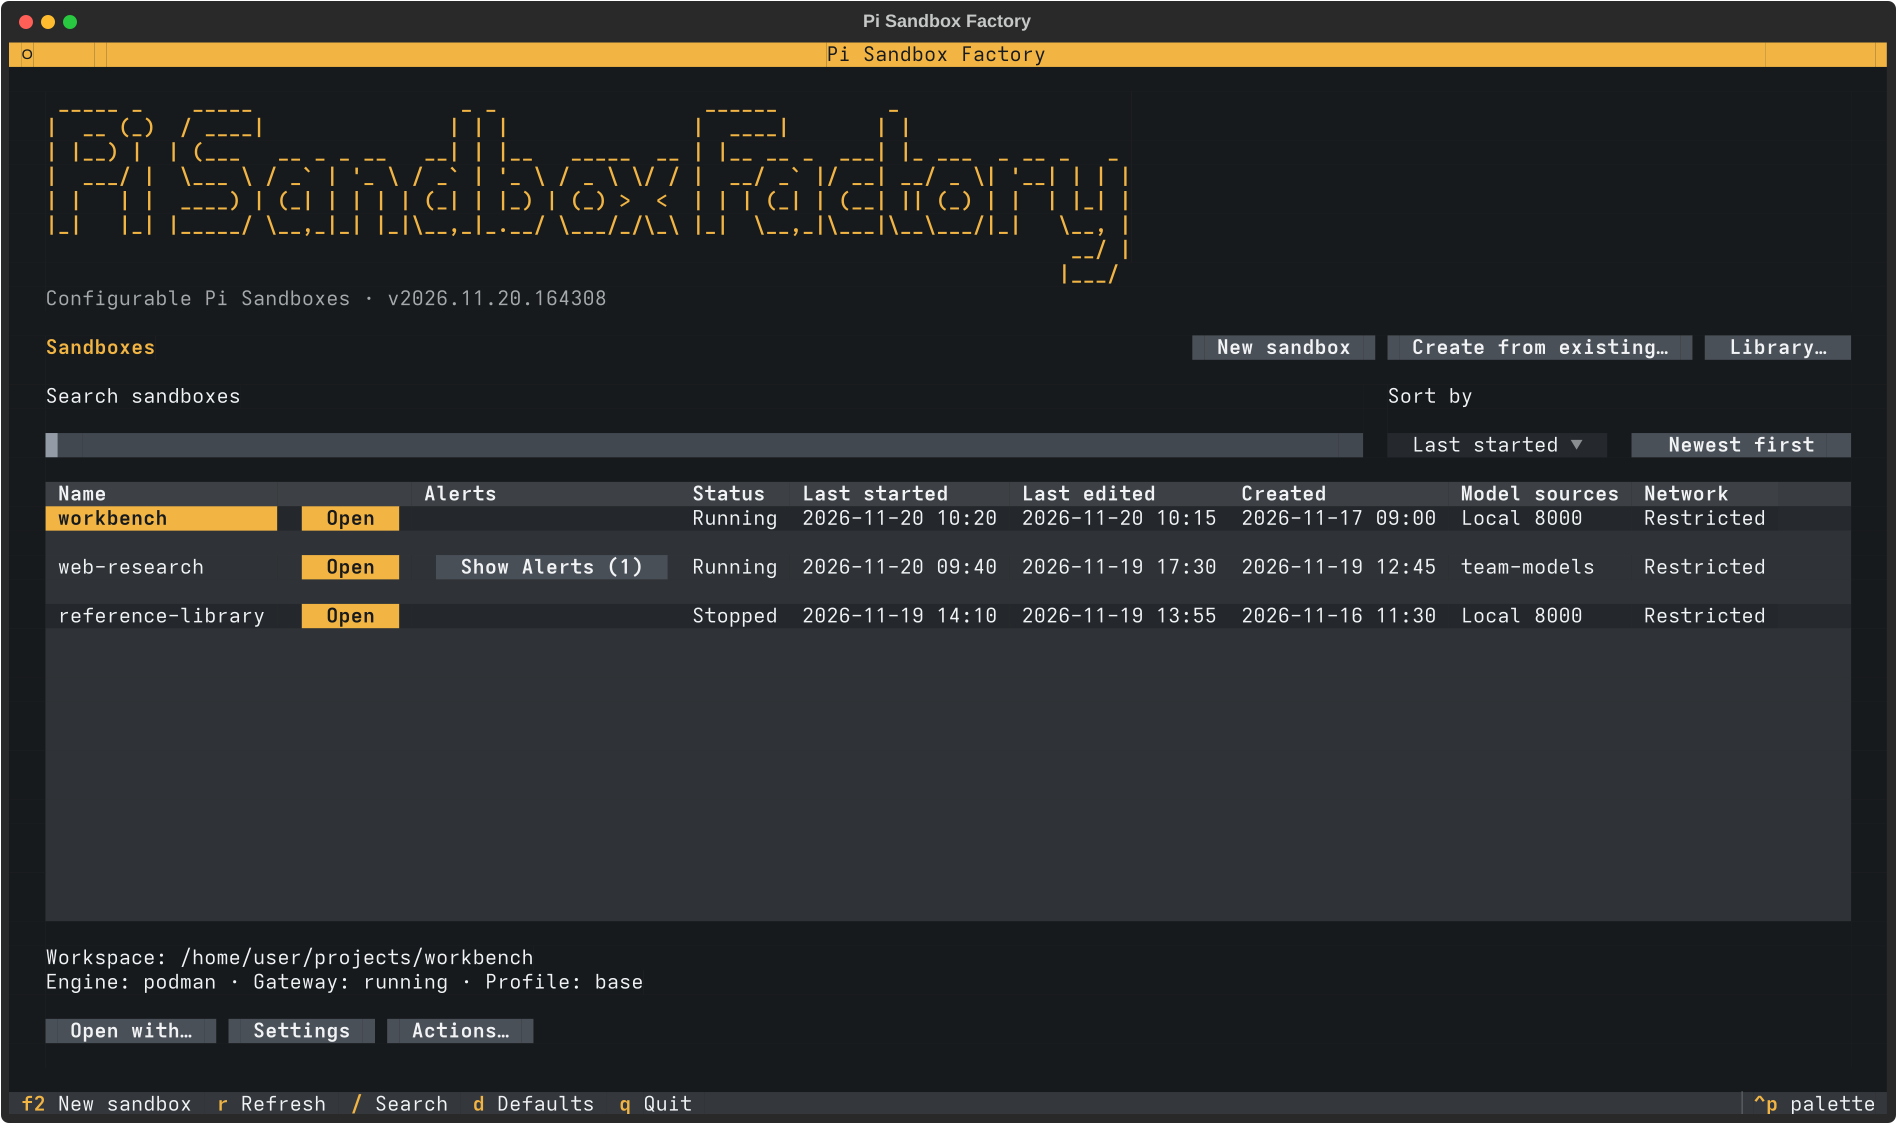
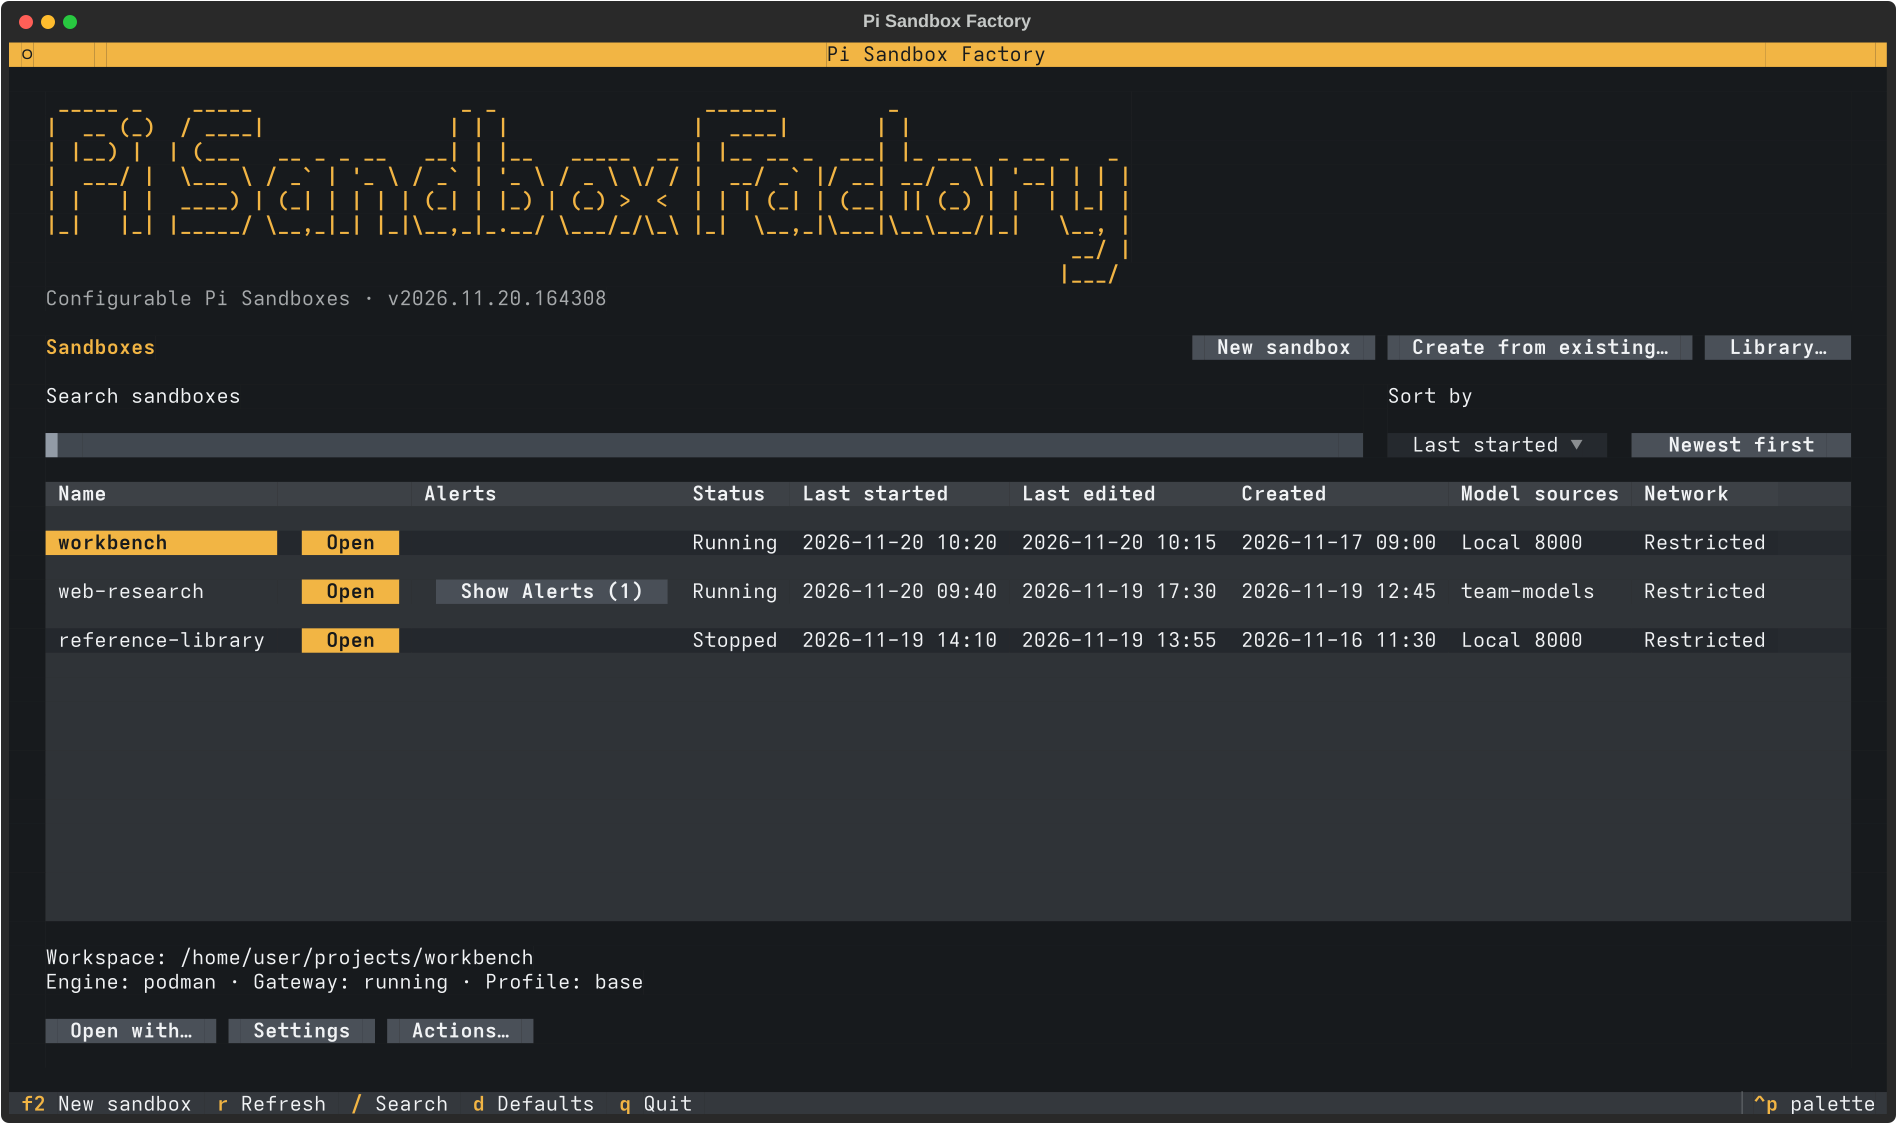
Match the table header margin to the sandbox rows

Changed region(s): [[0.0, 0.4359, 0.8397, 0.5916], [0.8708, 0.4359, 0.9331, 0.5916]]

diff --git a/tests/test_tui.py b/tests/test_tui.py
@@ -1177,6 +1177,9 @@ class TUITests(unittest.TestCase):
                 cell = table.get_cell_coordinate('beta', 'open')
                 region = table._get_cell_region(cell)
                 first = table._get_cell_region(table.get_cell_coordinate('alpha', 'open'))
+                self.assertIn('Name', table.render_line(0).text)
+                self.assertEqual(first.y, 2)
+                self.assertEqual(table.render_line(1), table.render_line(first.y + 1))
                 self.assertEqual(region.y - first.y, 2)
                 self.assertIn('alpha', table.render_line(first.y).text)
                 self.assertIn('Running', table.render_line(first.y).text)
@@ -1188,9 +1191,11 @@ class TUITests(unittest.TestCase):
                 gap = table.render_line(first.y + 1)
                 self.assertFalse(gap.text.strip())
                 self.assertTrue(all(segment.style == table.rich_style for segment in gap))
-                await pilot.click('#sandboxes', offset=(first.x + 3, first.y + 1), times=2)
-                self.assertEqual(app.selected_name(), 'beta')
-                launch.assert_not_called()
+                for offset in ((3, 1), (first.x + 3, first.y + 1)):
+                    await pilot.click('#sandboxes', offset=offset, times=2)
+                    self.assertEqual(app.selected_name(), 'beta')
+                    self.assertEqual(app.sort_field, 'started')
+                    launch.assert_not_called()
                 await pilot.click('#sandboxes', offset=(region.x + 3, region.y), button=3)
                 launch.assert_not_called()
                 await pilot.click('#sandboxes', offset=(region.x + 3, region.y), times=2)
@@ -1212,6 +1217,9 @@ class TUITests(unittest.TestCase):
                     await pilot.press('down')
                     self.assertEqual(app.selected_name(), records[row]['name'])
                 self.assertGreater(table.scroll_y, 0)
+                self.assertIn('Name', table.render_line(0).text)
+                self.assertFalse(table.render_line(1).text.strip())
+                self.assertTrue(all(segment.style == table.rich_style for segment in table.render_line(1)))
                 await pilot.press('right', 'enter')
                 launch.assert_called_once_with(records[-1]['name'], 'browser')
 

diff --git a/pi_sandbox_factory/sandbox_tui.py b/pi_sandbox_factory/sandbox_tui.py
@@ -1289,13 +1289,11 @@ def sandbox_alerts(record):
 
 
 class SandboxTable(DataTable):
-    # DataTable has no row margins. Reserve one line after each entry and
-    # paint it with the table background, without cell selection or click targets.
+    # The header and entries each use one content line and one inert margin.
     ROW_PITCH = 2
 
     def _render_line(self, y, x1, x2, base_style):
-        header = self.header_height if self.show_header else 0
-        if y >= header and (y - header) % self.ROW_PITCH:
+        if y % self.ROW_PITCH:
             return Strip.blank(self.size.width, base_style)
         return super()._render_line(y, x1, x2, base_style)
 
@@ -3680,7 +3678,8 @@ class Cockpit(App):
                             classes='toolbar-control')
                         yield Button('Newest first', id='sort-direction', classes='toolbar-control')
             yield SandboxTable(id='sandboxes', cursor_type='cell', cursor_background_priority='renderable',
-                               cursor_foreground_priority='renderable', zebra_stripes=True)
+                               cursor_foreground_priority='renderable', zebra_stripes=True,
+                               header_height=SandboxTable.ROW_PITCH)
             yield Static('Choose a sandbox, or create your first one.', id='details', markup=False)
             yield Feedback('', id='home-error', markup=False)
             with Horizontal(classes='buttons'):

diff --git a/TESTING.md b/TESTING.md
@@ -1027,7 +1027,8 @@ instructions for other clients. Render those states with
 `test_activity.py`, `test_sandbox.py` and the dashboard tests cover saved lifecycle
 times, no-op saves, successful starts, stale-runtime recovery, sorting, missing
 dates, filtering and selection preservation. Each sandbox and its actions occupy
-one line. One blank line separates entries. Clicking that gap must leave the
+one line. One blank line follows the header and separates adjacent entries.
+Clicking a gap must leave the
 selection unchanged. Check that every sandbox is reachable by keyboard. Render `tests/render_dashboard.py`
 at its three built-in sizes, in colour and with `--mono`.
 
